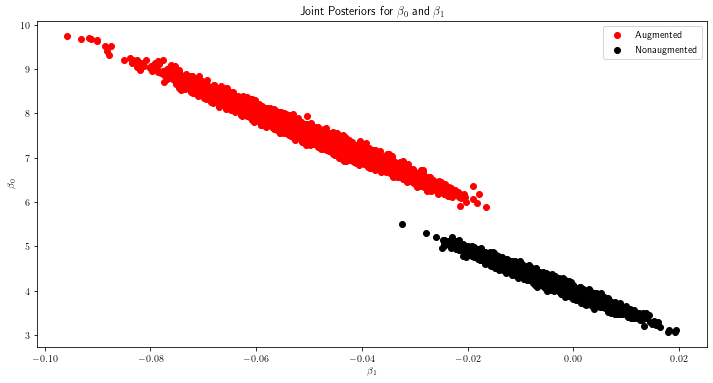
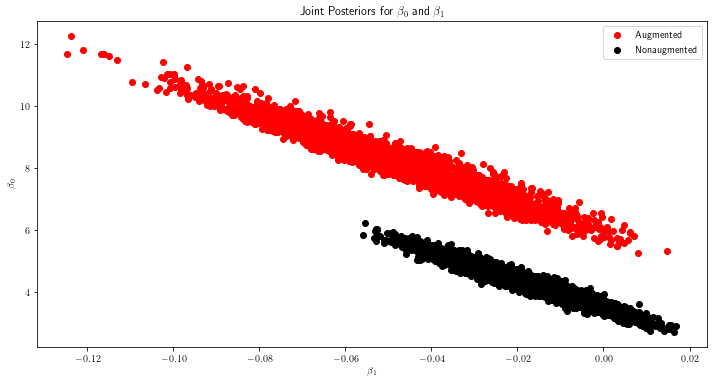
data aug updates

diff --git a/data_augmentation/README.md b/data_augmentation/README.md
@@ -187,10 +187,10 @@ deadIndices = stanfordHeartData.index[stanfordHeartData['survived'] == 'dead'].t
 
 # Truncate data
  
-# truncatedAlive = 28
-# truncatedDead = 15
-# aliveIndices = random.sample(aliveIndices, truncatedAlive)
-# deadIndices = random.sample(deadIndices, truncatedDead)
+truncatedAlive = 28
+truncatedDead = 28
+aliveIndices = random.sample(aliveIndices, truncatedAlive)
+deadIndices = random.sample(deadIndices, truncatedDead)
 deadSurvivalTimes = stanfordHeartData['survtime'][deadIndices]
 logDeadSurvivalTimes = np.array(np.log(deadSurvivalTimes))
 deadAge = np.array(stanfordHeartData['age'][deadIndices])
@@ -321,6 +321,8 @@ convergenceSigmaSq = np.quantile(posteriorsOverIterations[:, :, 2], quantiles, a
 
 ```python
 # Plot imputations for the last augmented posterior 
+
+## SAVE THE IMAGES SEPARATELY IN CODE CHUNK BELOW
 
 num_images = 200
 image_nums = [int(temp_image) for temp_image in np.linspace(0, numImputations - 1, num_images)]

diff --git a/README.md b/README.md
@@ -22,3 +22,4 @@ Hopefully, the reader will gain an understanding of what statistical and mathema
 
 <img src="new_github_logo.gif" width = "400" height = "300"> <img src="data_augmentation/theta_sampler.gif" width = "400" height = "300"> 
 <img src="data_augmentation/imputed_survival_times_reg_line.gif" width = "400" height = "300"> <img src="data_augmentation/imputed_survival_times_joint.gif" width = "400" height = "300"> 
+<img src="simulated_annealing/tsp.gif" width = "400" height = "300"> 
